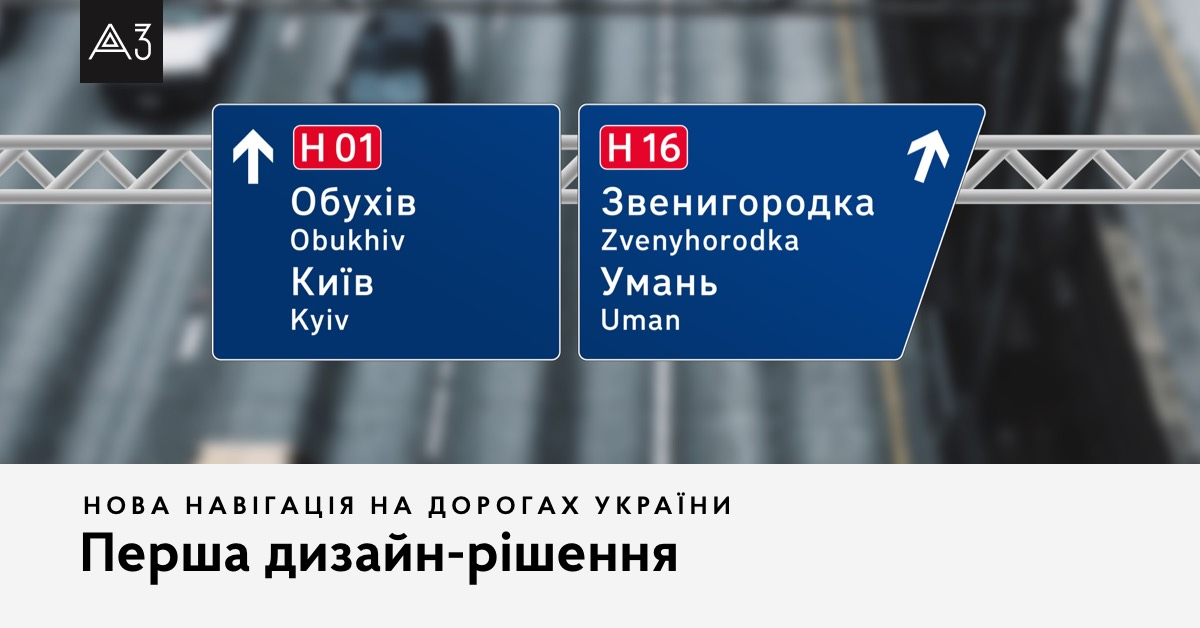
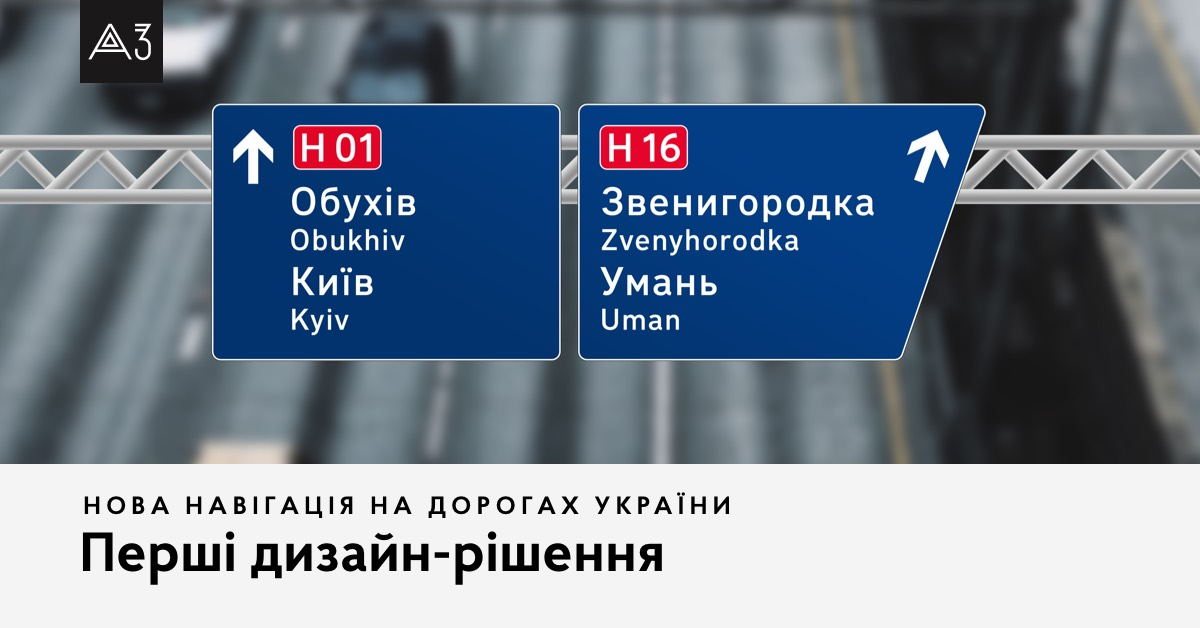
fix /road-wf-2

Changed region(s): [[0.185, 0.8471, 0.5858, 0.9379]]

diff --git a/projects/road-wayfinding/2-first-decisions/index.html b/projects/road-wayfinding/2-first-decisions/index.html
@@ -167,7 +167,7 @@ function hideDiv() {
         Спроби змінити підхід до&nbsp;навігації (маршрутного орієнтування) відбувалися здавна і&nbsp;неодноразово, але зміни до&nbsp;регуляторних документів&nbsp;&mdash; це&nbsp;процес, який тривав довше, ніж ініціатори перебували на&nbsp;посаді. Тому нікому це&nbsp;не&nbsp;було особливо цікавим.
       </p>
       <p>
-        Ми&nbsp;вирішили на&nbsp;практиці відпрацювати на&nbsp;кількох ділянках, вивчити реальний користувацький досвід водіїв, оцінити правильність та&nbsp;ефективність рішень. Та&nbsp;вже на&nbsp;підставі готових об&rsquo;єктів вносити зміни до&nbsp;стандартів, написати зрозуміле керівництво та&nbsp;впроваджувати такі рішення по&nbsp;всій мережі доріг.
+        Ми&nbsp;вирішили, вивчивши реальний користувацький досвід водіїв, на&nbsp;практиці відпрацювати наші рішення на&nbsp;кількох ділянках, оцінити їхню правильність та&nbsp;ефективність. Та&nbsp;вже на&nbsp;підставі готових об&rsquo;єктів вносити зміни до&nbsp;стандартів, написати зрозуміле керівництво та&nbsp;впроваджувати нові навігаційні рішення по&nbsp;всій мережі доріг.
       </p>
 
     </div>
